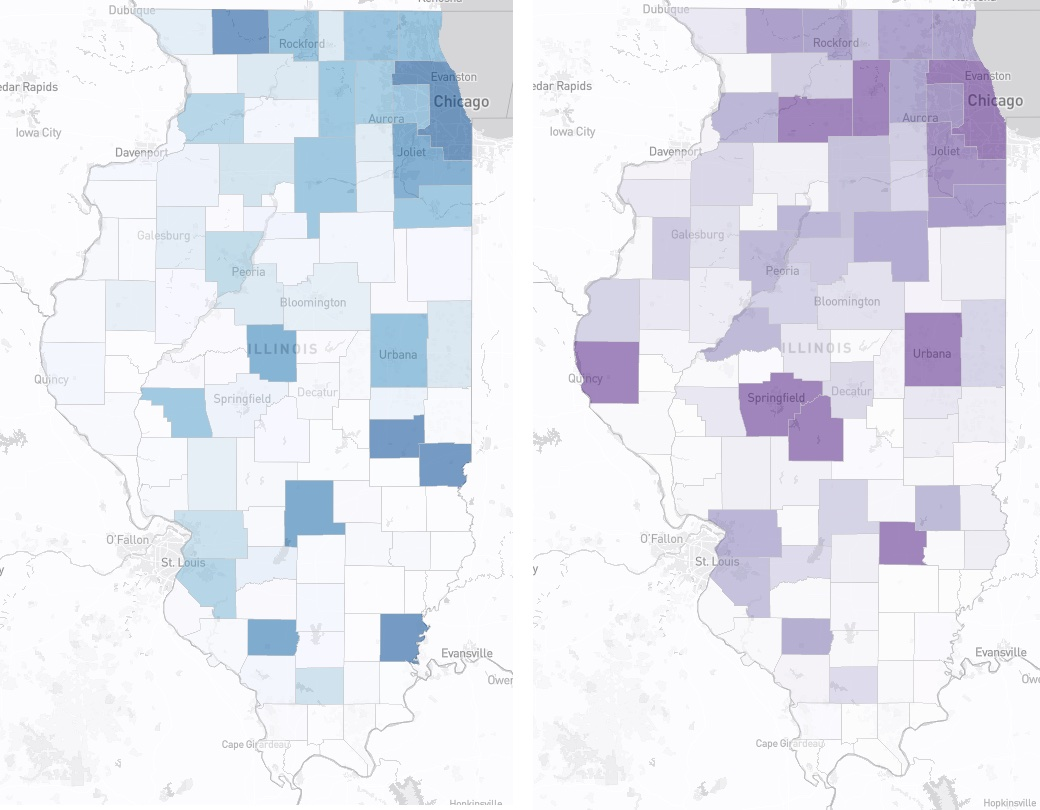
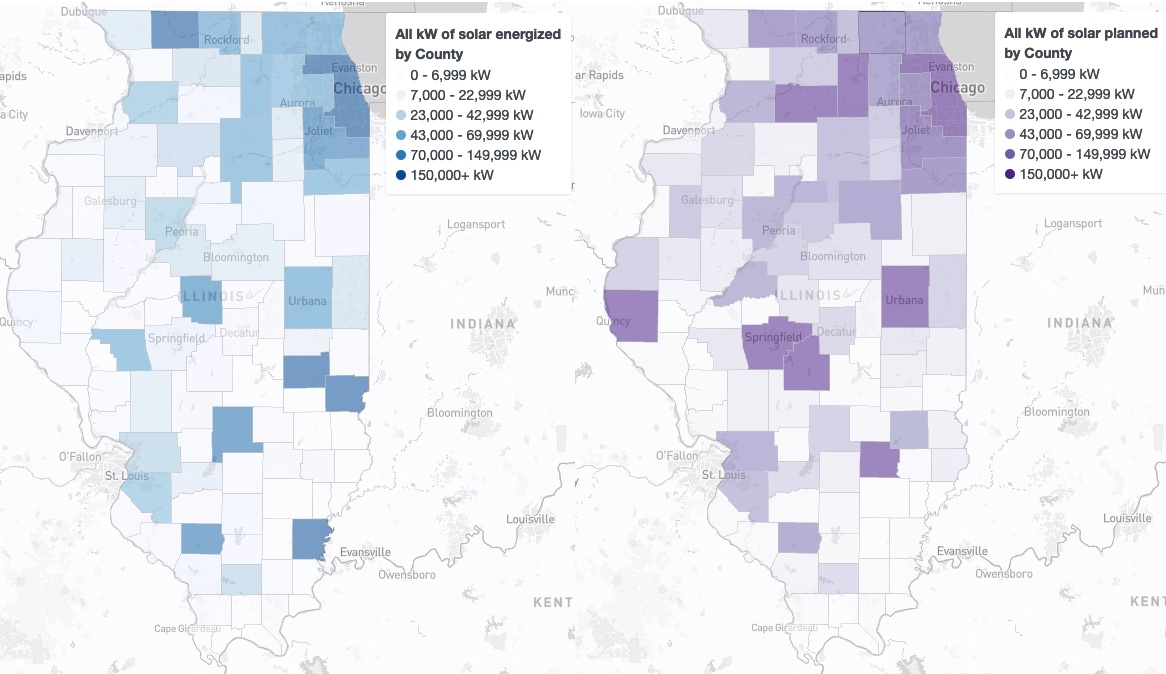
update about with new image for energized vs planned

diff --git a/about.html b/about.html
@@ -76,10 +76,11 @@ Solar installations are divided up into 4 categories:
 
 <p>An additional <strong>{{site.planned_kw}} kilowatts</strong> of solar is planned or under construction in Illinois, over double what is currently energized. You can view where and what kind of projects are planned by clicking the 'Planned' selector on the map:
 </p>
-<p>
+<p class="text-center">
   <a href="/index.html#/?status=planned&geography=counties">
     <img src="/images/energized-vs-planned.jpg" class="img-fluid img-thumbnail" alt="Energized vs planned solar projects by County" title="Energized vs planned solar projects by County">
   </a>
+  <br /><em>Energized (blue) vs Planned (purple) kW of solar in Illinois</em>
 </p>
 <p class="text-center my-4">
   <a href="/index.html#/?status=planned&geography=counties" class="btn btn-primary btn-lg px-4">View planned projects</a>
